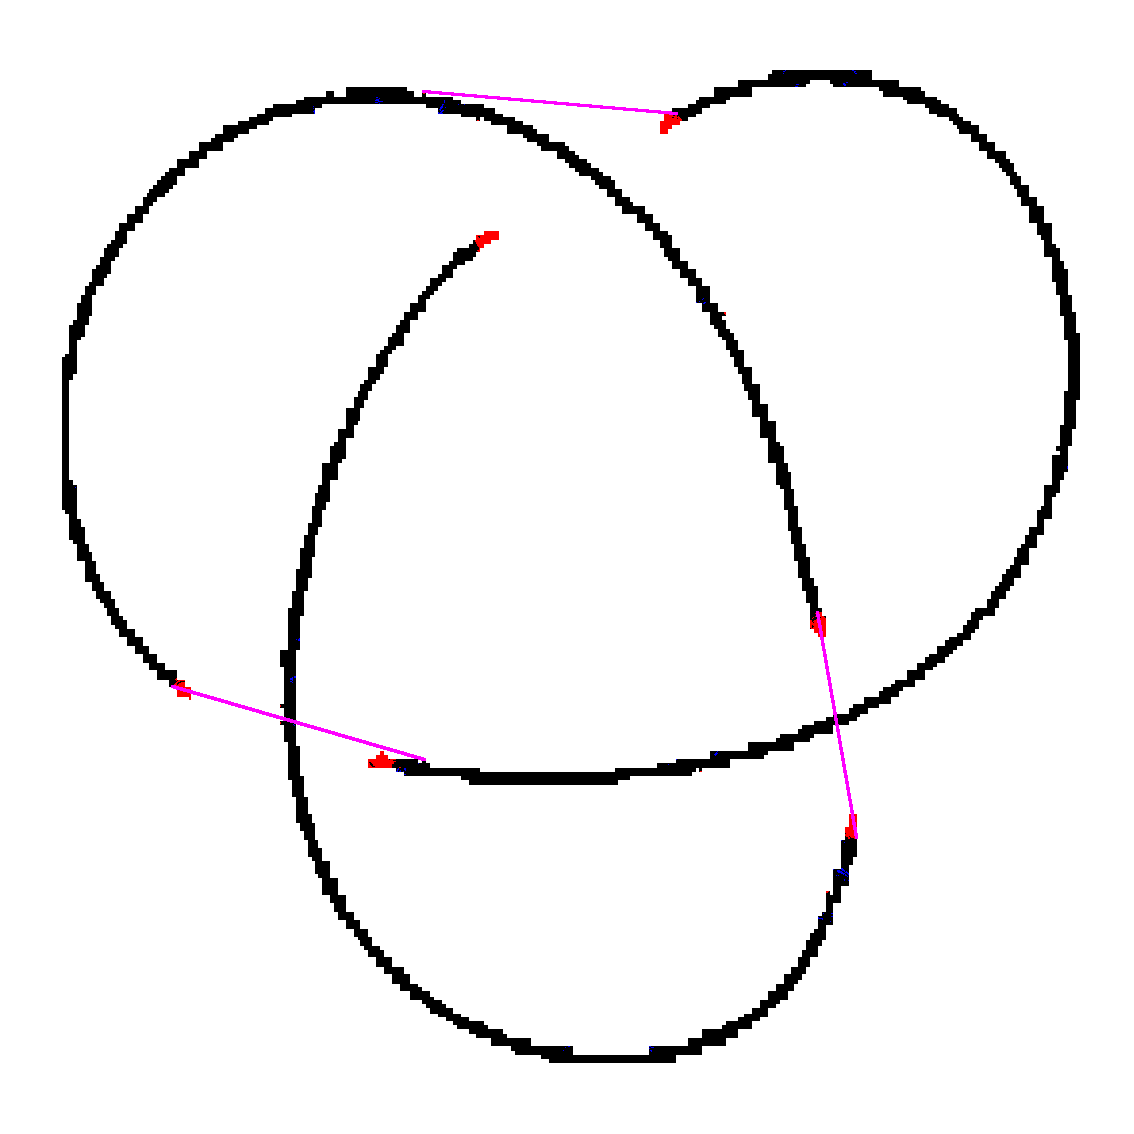
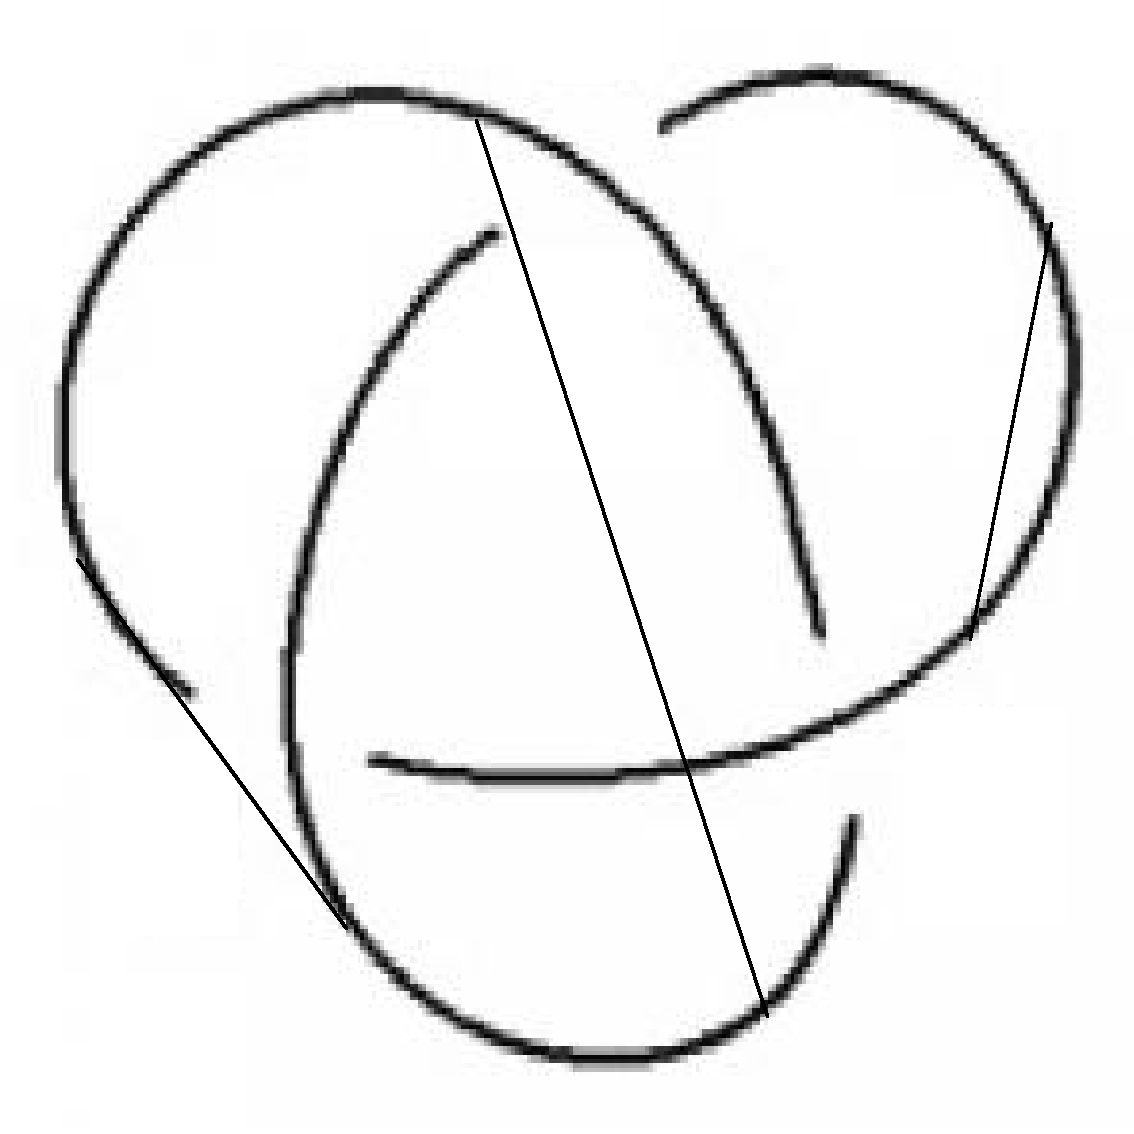
Started to add endpoint smoothing

diff --git a/src/Vision/Recognizer.java b/src/Vision/Recognizer.java
@@ -4,6 +4,7 @@ import java.awt.image.BufferedImage;
 import java.io.File;
 import java.io.IOException;
 import java.util.ArrayList;
+import java.util.HashMap;
 import java.util.HashSet;
 
 import javax.imageio.ImageIO;
@@ -63,7 +64,6 @@ public class Recognizer {
 	 * Each component is recognized as an ArrayList of pairs of integers representing the coordinates of each point.
 	 * This function returns an ArrayList of such ArrayLists. 
 	 */
-	@SuppressWarnings("unused")
 	private HashSet<HashSet<Pair<Integer, Integer>>> getComponents(HashSet<Pair<Integer, Integer>> points) {
 		HashSet<Pair<Integer, Integer>> remainingPixels = points;
 		HashSet<HashSet<Pair<Integer, Integer>>> components = new HashSet<HashSet<Pair<Integer, Integer>>>();
@@ -167,22 +167,43 @@ public class Recognizer {
 		return (int)Math.round(numProtrusions);
 	}
 	/*
-	 * Returns an ArrayList of endpoints of the knot. Each endpoint is represented as single point from the end of a strand. 
-	 * The method goes through a sampling of the points along the knot, calculates the number of protrusions for each point, 
-	 * then collects all of the points with 1 protrusion and chooses one point from each cluster, then returns those endpoints.
+	 * Chooses a random sampling of the pixels (samples PERCENT_SAMPLED percent of all pixels in the knot), then calculates
+	 * the number of protrusion for each point, then returns a map of the pair (point, numProtrusions(point)).
 	 */
-	public ArrayList<Pair<Integer, Integer>> getEndpoints(int numCrossings) {
+	public HashMap<Pair<Integer, Integer>, Integer> getProtrusionMap() {
+		HashMap<Pair<Integer, Integer>, Integer> protrusions = new HashMap<Pair<Integer, Integer>, Integer>();
+		
 		final int PERCENT_SAMPLED = 80;
 		double proportionSampled = (double)PERCENT_SAMPLED / 100.0;
-		ArrayList<Pair<Integer, Integer>> pointsNearEnd = new ArrayList<Pair<Integer, Integer>>();
 		
 		int n = pixels.size(); // Remove this after testing
 		int count = 0; // Remove this after testing
 		
 		for (Pair<Integer, Integer> point : pixels) {
-			if (Math.random() <= proportionSampled && getNumProtrusions(point) == 1) pointsNearEnd.add(point);
-			System.out.println("Finding endpoints " + 100.0 * (double)count / (double)n); // Remove this after testing
+			if (Math.random() <= proportionSampled) protrusions.put(point, getNumProtrusions(point));
+			System.out.println("Searching for endpoints " + 100.0 * (double)count / (double)n); // Remove this after testing
 			count++; //Remove this after testing
+		}
+		
+		return protrusions;
+	}
+	/*
+	 * START HERE TOMORROW
+	 */
+	public HashMap<Pair<Integer, Integer>, Integer> smoothProtrusionMap(HashMap<Pair<Integer, Integer>, Integer> protrusions) {
+		return protrusions;
+	}
+	/*
+	 * Returns an ArrayList of endpoints of the knot. Each endpoint is represented as single point from the end of a strand. 
+	 * The method goes through a sampling of the points along the knot, calculates the number of protrusions for each point, 
+	 * then collects all of the points with 1 protrusion and chooses one point from each cluster, then returns those endpoints.
+	 */
+	public ArrayList<Pair<Integer, Integer>> getEndpoints(int numCrossings) {
+		HashMap<Pair<Integer, Integer>, Integer> protrusions = getProtrusionMap();
+		ArrayList<Pair<Integer, Integer>> pointsNearEnd = new ArrayList<Pair<Integer, Integer>>();
+		
+		for (Pair<Integer, Integer> point : protrusions.keySet()) {
+			if (protrusions.get(point) == 1) pointsNearEnd.add(point);
 		}
 		
 		ArrayList<Pair<Integer, Integer>> endPoints = new ArrayList<Pair<Integer, Integer>>();
@@ -235,11 +256,18 @@ public class Recognizer {
 		return endpointPairs;
 	}
 	/*
-	 * START HERE TOMORROW. Just start with pixels, then remove rectangles between paired endpoints. Easy peazy
+	 * Returns the individual arcs (not connected components) of the knot. 
 	 */
-	public HashSet<Pair<Integer, Integer>> getArcPixels(ArrayList<Pair<Pair<Integer, Integer>, Pair<Integer, Integer>>> pairedEndpoints) {
+	public HashSet<HashSet<Pair<Integer, Integer>>> getArcs(ArrayList<Pair<Pair<Integer, Integer>, Pair<Integer, Integer>>> pairedEndpoints) {
 		HashSet<Pair<Integer, Integer>> arcPixels = pixels;
+		ArrayList<Pair<Integer, Integer>> rect = new ArrayList<Pair<Integer, Integer>>();
 		
-		return arcPixels;
+		for (Pair<Pair<Integer, Integer>, Pair<Integer, Integer>> pairEndpoints : pairedEndpoints) {
+			// Start changing it here
+			rect = PixelProcessor.getRectangleBetween(pairEndpoints.getKey(), pairEndpoints.getValue());
+			arcPixels.removeAll(rect);
+		}
+		
+		return getComponents(arcPixels);
 	}
 }

diff --git a/src/Vision/VisionRunner.java b/src/Vision/VisionRunner.java
@@ -13,7 +13,7 @@ import javafx.util.Pair;
 
 public class VisionRunner {
 	public static void main(String[] args) {
-		String path = "perkoPair.gif";
+		String path = "trefoil.svg";
 		Recognizer rec = new Recognizer(path);
 		
 		BufferedImage testImage = null;
@@ -25,11 +25,13 @@ public class VisionRunner {
 		
 		//testImage = testProtrusions(rec, testImage);
 		
-		ArrayList<Pair<Integer, Integer>> endpoints = rec.getEndpoints(10);
+		ArrayList<Pair<Integer, Integer>> endpoints = rec.getEndpoints(3);
 		testImage = testEndpoints(endpoints, testImage);
 		
 		ArrayList<Pair<Pair<Integer, Integer>, Pair<Integer, Integer>>> pairedEndpoints = rec.pairEndpoints(endpoints); 
 		testImage = testPairingEndpoints(pairedEndpoints, testImage);
+		
+		System.out.println(rec.getArcs(pairedEndpoints).size());
 		
 		File outputfile = new File("images/test_" + path);
         try {
